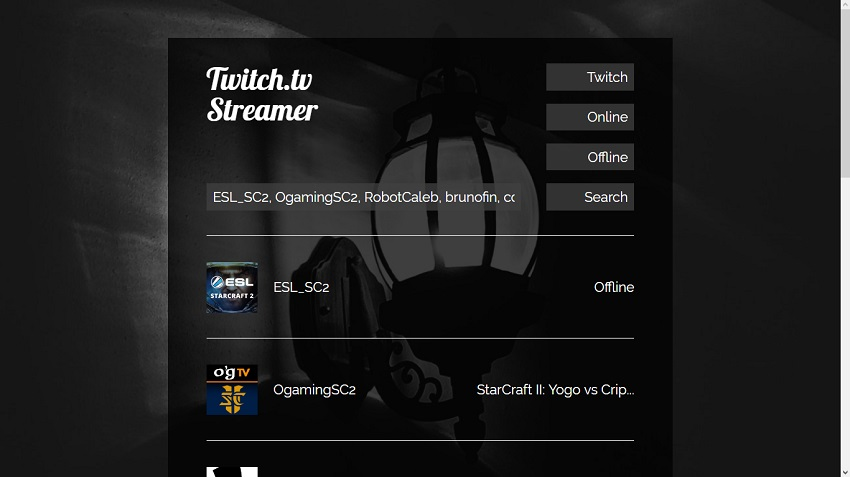
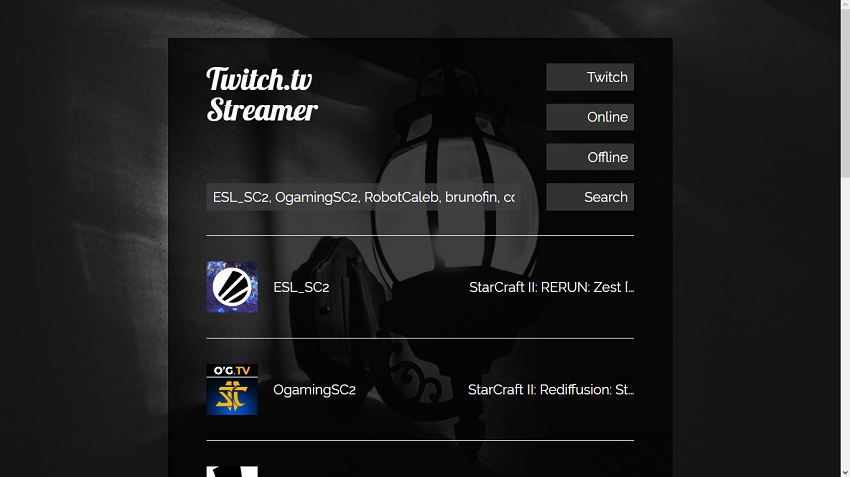
Handle input overflow

diff --git a/assets/voting-app/scripts/client/components/main/poll/poll-list.jsx b/assets/voting-app/scripts/client/components/main/poll/poll-list.jsx
@@ -64,16 +64,18 @@ const PollList = (props) => {
             key={keyGen(text)}
             onClick={handleVote(text)}
           >
-            {created ? (
-              <span className="c-poll-options__remove qa-option-remove" onClick={handleRemove(text)}>
-                <i className="fa fa-close" />
-              </span>
-            ) : (
-              <svg className="c-poll-options__color-box">
-                <rect className="c-poll-options__color-icon" fill={chartColor(i, poll.options)} />
-              </svg>
-            )}
-            <span>{text}</span>
+            <div className="c-poll-options__layout">
+              {created ? (
+                <span className="c-poll-options__remove qa-option-remove" onClick={handleRemove(text)}>
+                  <i className="fa fa-close" />
+                </span>
+              ) : (
+                <svg className="c-poll-options__color-box">
+                  <rect className="c-poll-options__color-icon" fill={chartColor(i, poll.options)} />
+                </svg>
+              )}
+              <span>{text}</span>
+            </div>
           </button>
         );
 

diff --git a/assets/voting-app/scripts/client/components/main/list/list-body.jsx b/assets/voting-app/scripts/client/components/main/list/list-body.jsx
@@ -32,15 +32,15 @@ const ListBody = (props) => {
         <table className="c-list-body__table js-scroll-content">
           <thead>
             <tr>
-              <td>
+              <td className="c-list-body__col--10">
                 <h5>Hide</h5>
               </td>
               {auth && (
-                <td>
+                <td className="c-list-body__col--10">
                   <h5>Flag</h5>
                 </td>
               )}
-              <td>
+              <td className={`c-list-body__col--${auth ? "80" : "90"}`}>
                 <h5>Description</h5>
               </td>
             </tr>

diff --git a/assets/voting-app/styles.scss b/assets/voting-app/styles.scss
@@ -13,6 +13,7 @@
 
 @mixin grid-area {
   background-color: rgba(0, 0, 0, 0.75);
+  overflow: hidden;
   padding: 3vw 4.5vw;
 }
 
@@ -49,8 +50,15 @@
   height: calc(100vh - 9vw);
   max-height: 60vw;
 
+  &__col {
+    &--10 { width: 10%; }
+    &--80 { width: 80%; }
+    &--90 { width: 90%; }
+  }
+
   &__scroll-view {
     height: 100%;
+    overflow-x: hidden;
     overflow-y: scroll;
     padding-right: 4.5vw;
   }
@@ -110,6 +118,8 @@
   &__input-box { display: flex; }
 
   &__input { flex: 11; }
+
+  &__layout { display: flex; }
 
   &__option { display: inline; }
 

diff --git a/master/styles/master.scss b/master/styles/master.scss
@@ -57,6 +57,12 @@ $bg-input: rgba(64, 64, 64, 0.75);
   width: $width;
 }
 
+@mixin ellipsis {
+  overflow: hidden;
+  text-overflow: ellipsis;
+  white-space: nowrap;
+}
+
 @mixin font-body { font-family: "Raleway", sans-serif; }
 @mixin font-head { font-family: "Lobster", cursive; }
 
@@ -109,6 +115,7 @@ body {
   font-size: 1.6vw;
   line-height: 1.4;
   text-align: justify;
+  word-break: break-word;
 }
 
 button {

diff --git a/assets/twitch-viewer/scripts/client/view-logic.js b/assets/twitch-viewer/scripts/client/view-logic.js
@@ -4,7 +4,6 @@
 
 const { getJSON } = require("client-utils");
 const { select } = require("dom-api");
-const { truncate } = require("utilities");
 
 //get output
 
@@ -50,7 +49,7 @@ const parseStream = (id, res) => {
 
   select(`.js-edit-state-${id}`).class("is-offline is-online", true);
 
-  select(`.js-edit-status-${id}`).text(truncate(status, 30));
+  select(`.js-edit-status-${id}`).text(status);
 
 };
 

diff --git a/master/scripts/utilities.js b/master/scripts/utilities.js
@@ -157,10 +157,6 @@ const toPrecision = (n, sf = 15) => {
 
 };
 
-//truncate
-
-const truncate = (str, length) => str.length < length ? str : `${str.slice(0, length - 3)}...`;
-
 //exports
 
 module.exports = {
@@ -177,6 +173,5 @@ module.exports = {
   readDate,
   rngInt,
   roundTo,
-  toPrecision,
-  truncate
+  toPrecision
 };

diff --git a/assets/twitch-viewer/styles.scss b/assets/twitch-viewer/styles.scss
@@ -14,13 +14,18 @@ $margin: (6vw - 1.6vw * 1.4) / 2;
   }
 
   &__name {
+    @include ellipsis;
     float: left;
     margin: $margin 0 0 $margin;
+    width: 40%;
   }
 
   &__status {
+    @include ellipsis;
     float: right;
     margin-top: $margin;
+    text-align: right;
+    width: 40%;
   }
 
 }
